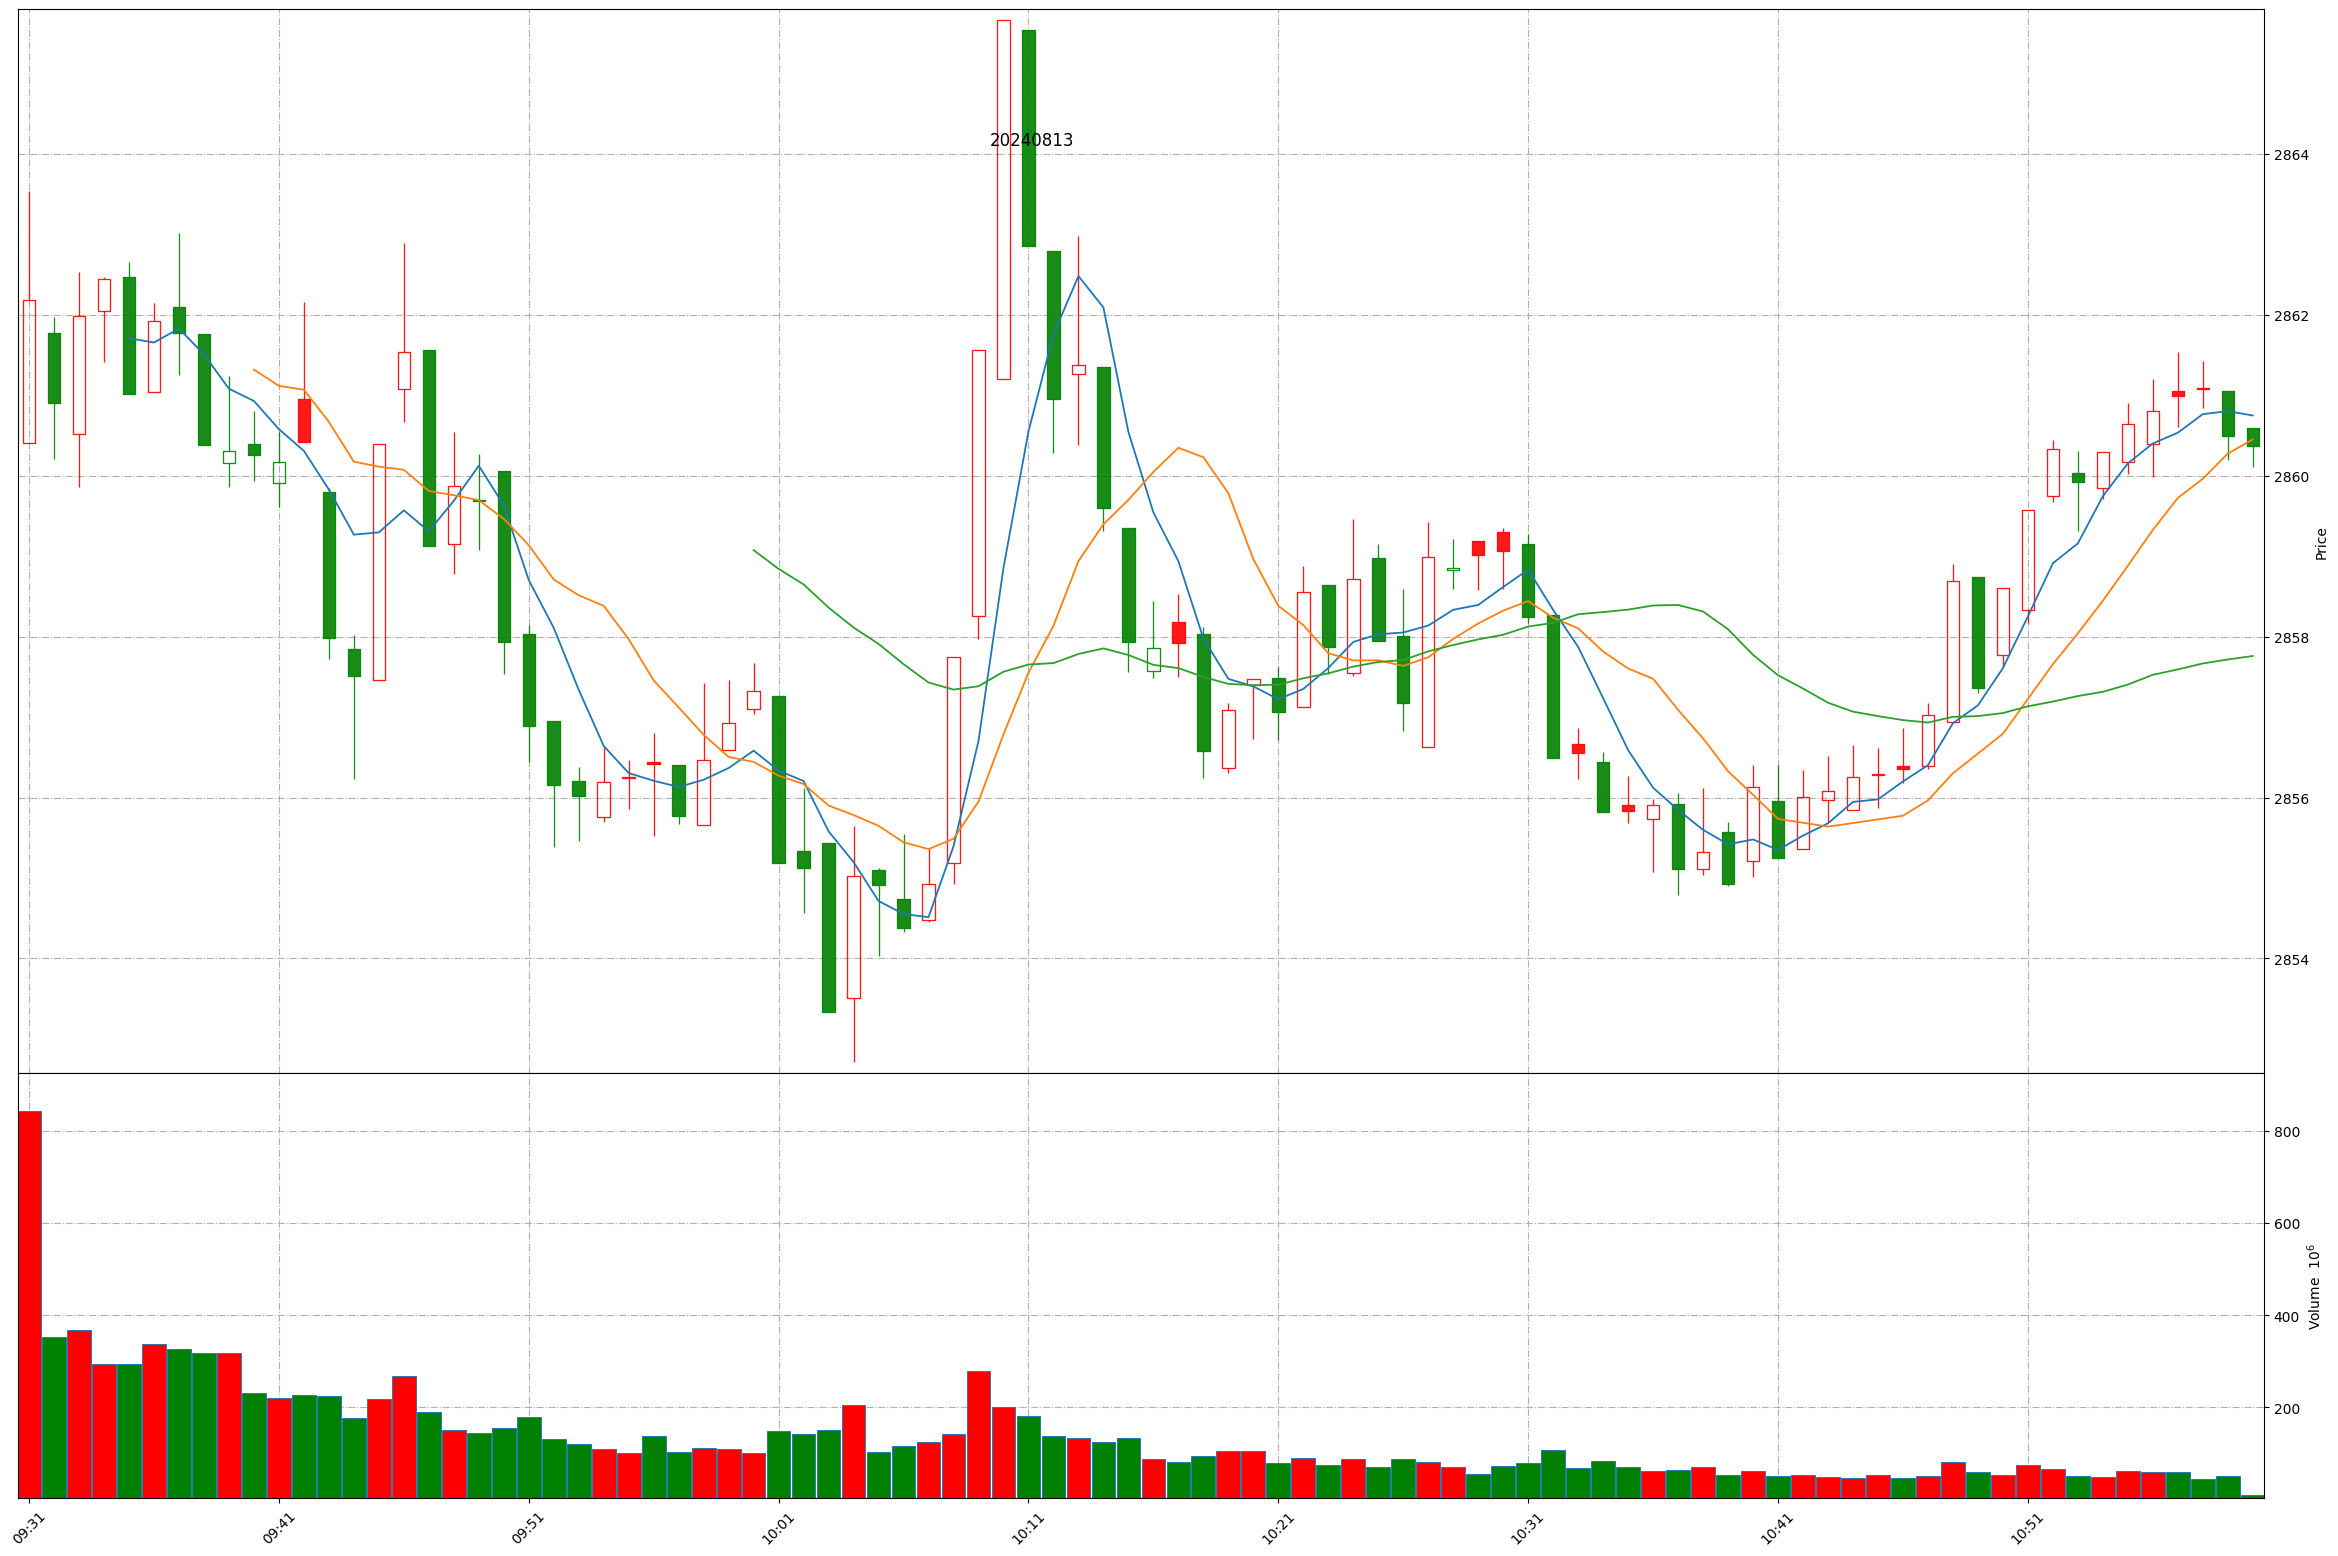
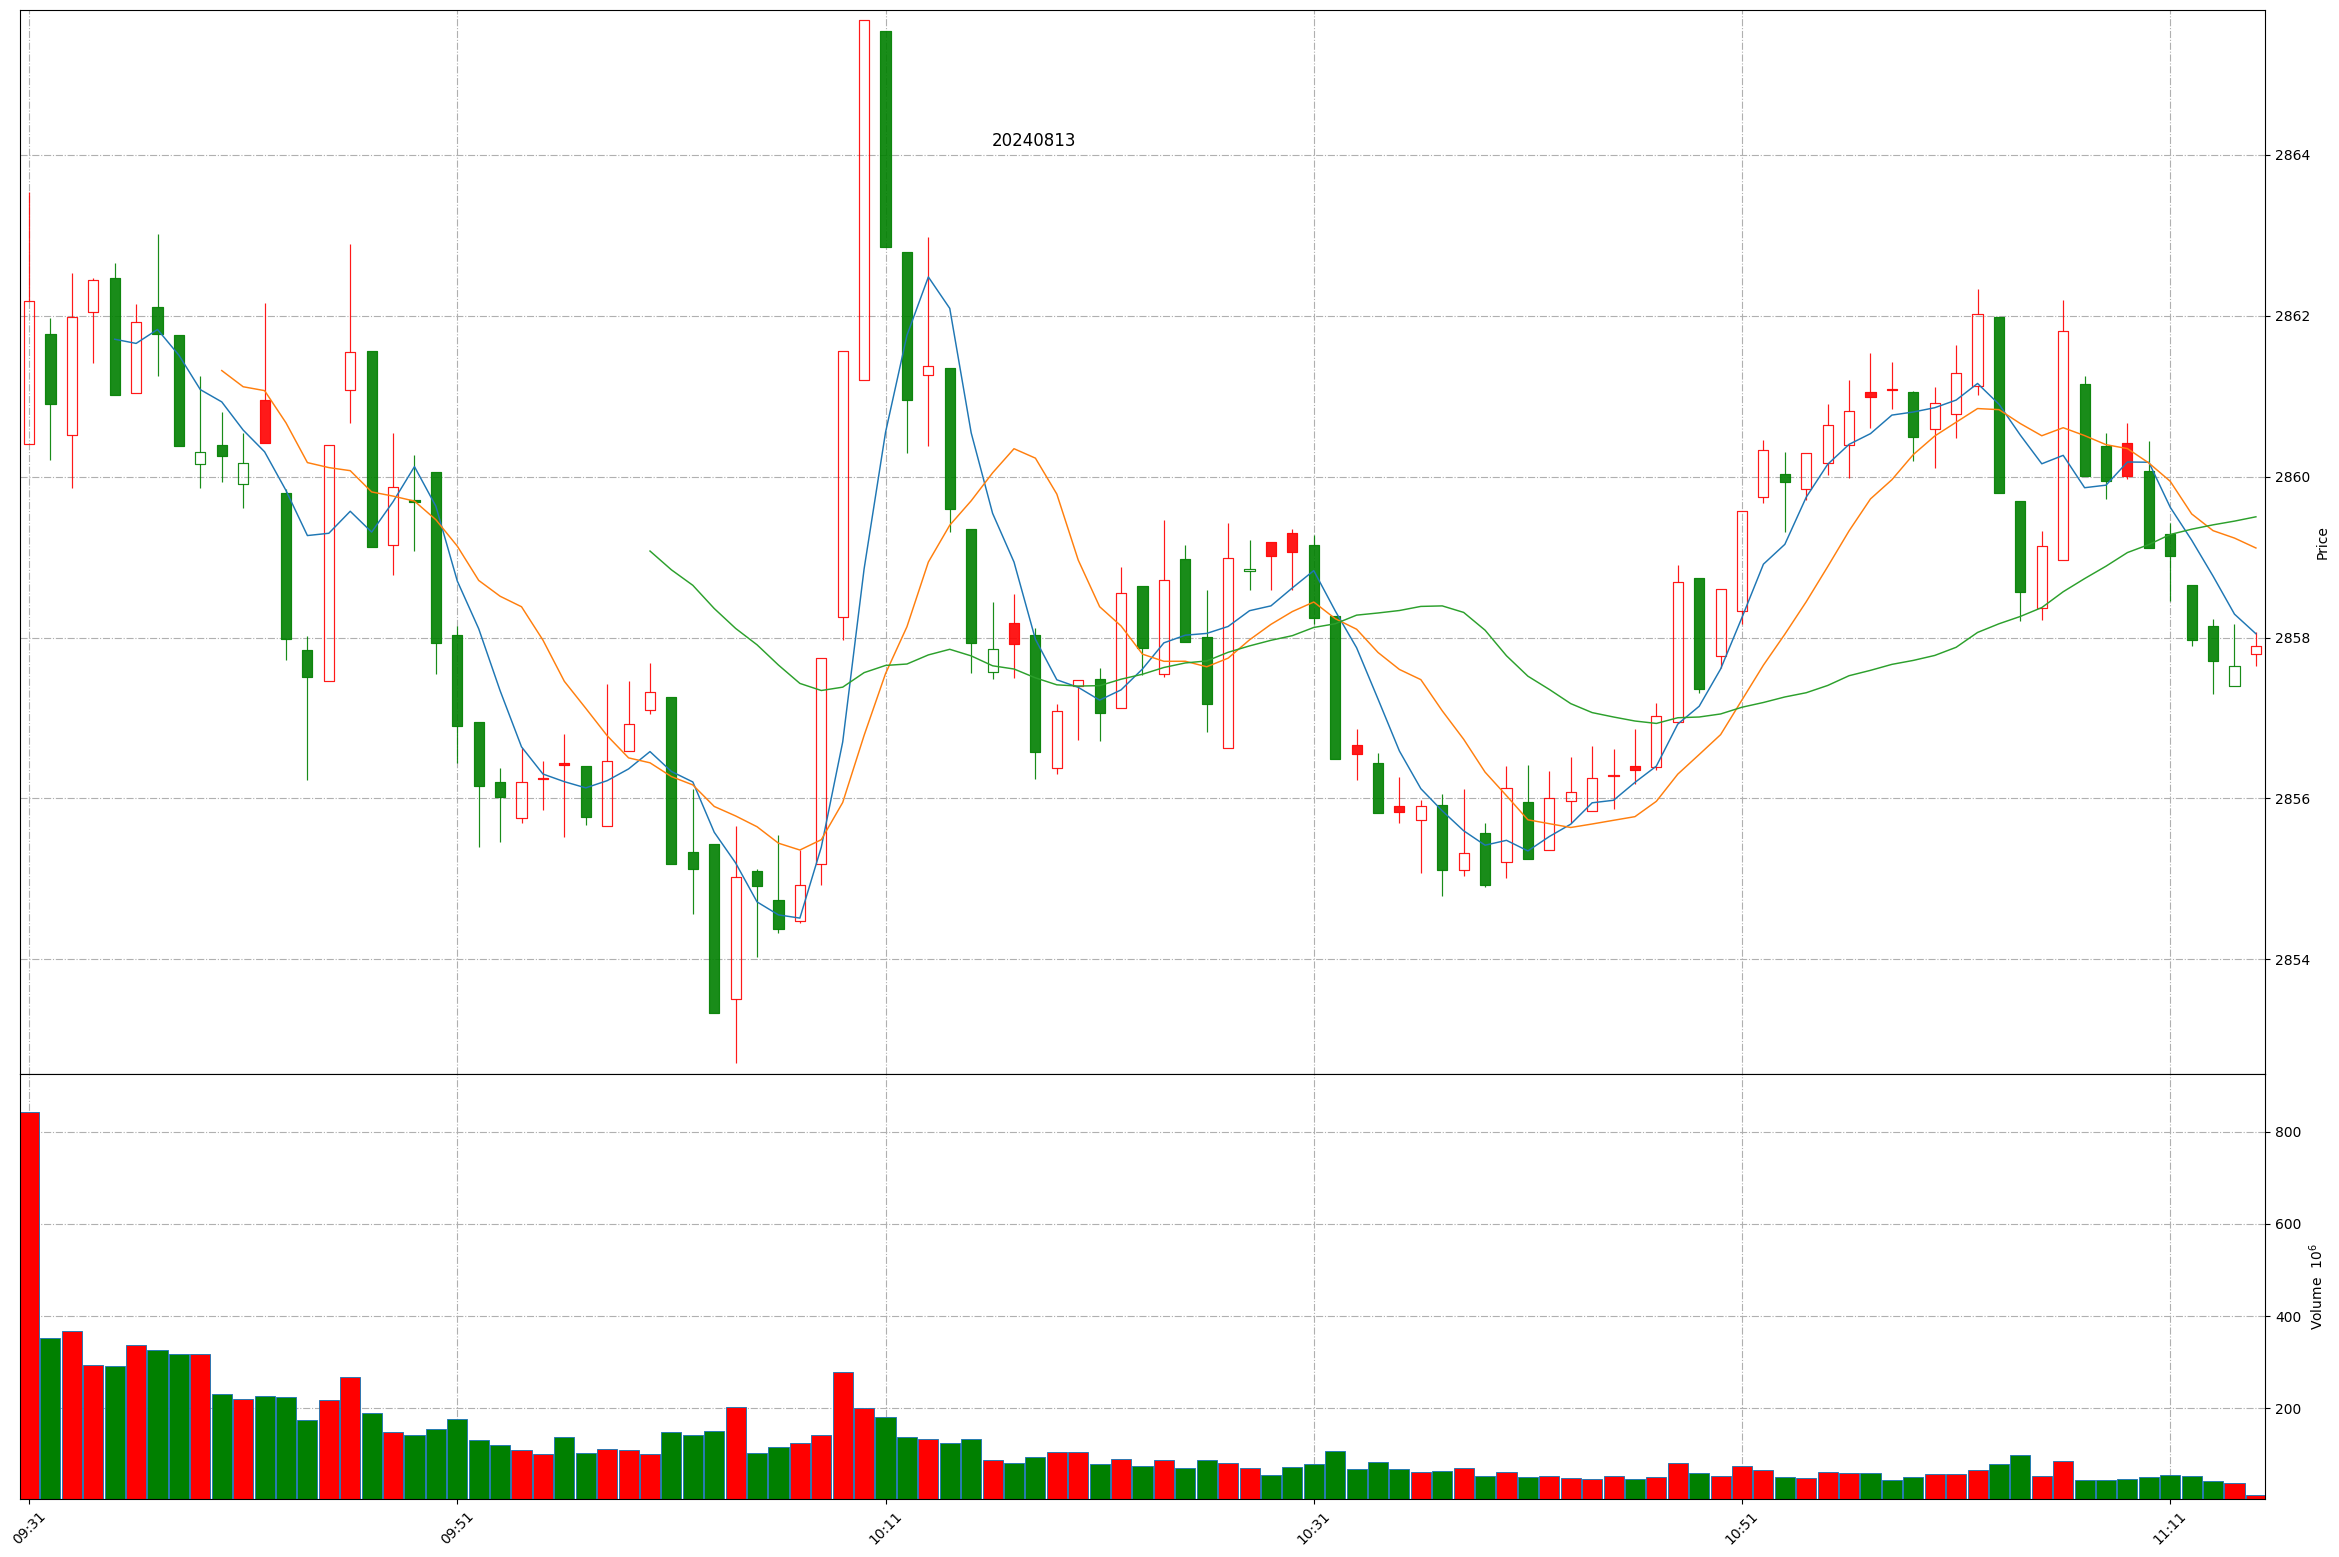
Github action update at 2024-08-13 11:14:31.

diff --git a/README.md b/README.md
@@ -1,11 +1,11 @@
 
 # Daily-A-share-market-quotes 每日 A 股指数（5min 更新）- 20240813
 
-### 上证指数 20240813 10:59
+### 上证指数 20240813 11:14
 ![](./fig/2024/8/20240813-sh000001.png)
 
-### 深证成指 20240813 10:59
+### 深证成指 20240813 11:14
 ![](./fig/2024/8/20240813-sz399001.png)
 
-### 北证50 20240813 10:59
+### 北证50 20240813 11:14
 ![](./fig/2024/8/20240813-bj899050.png)
